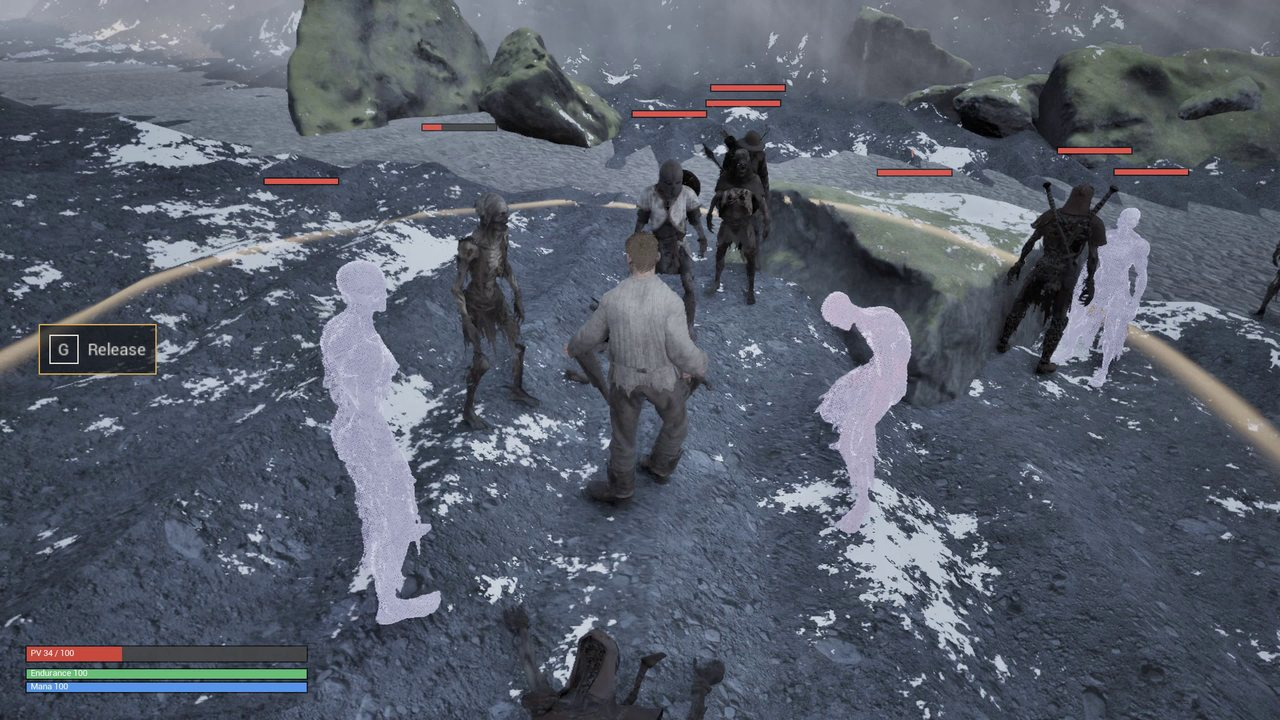
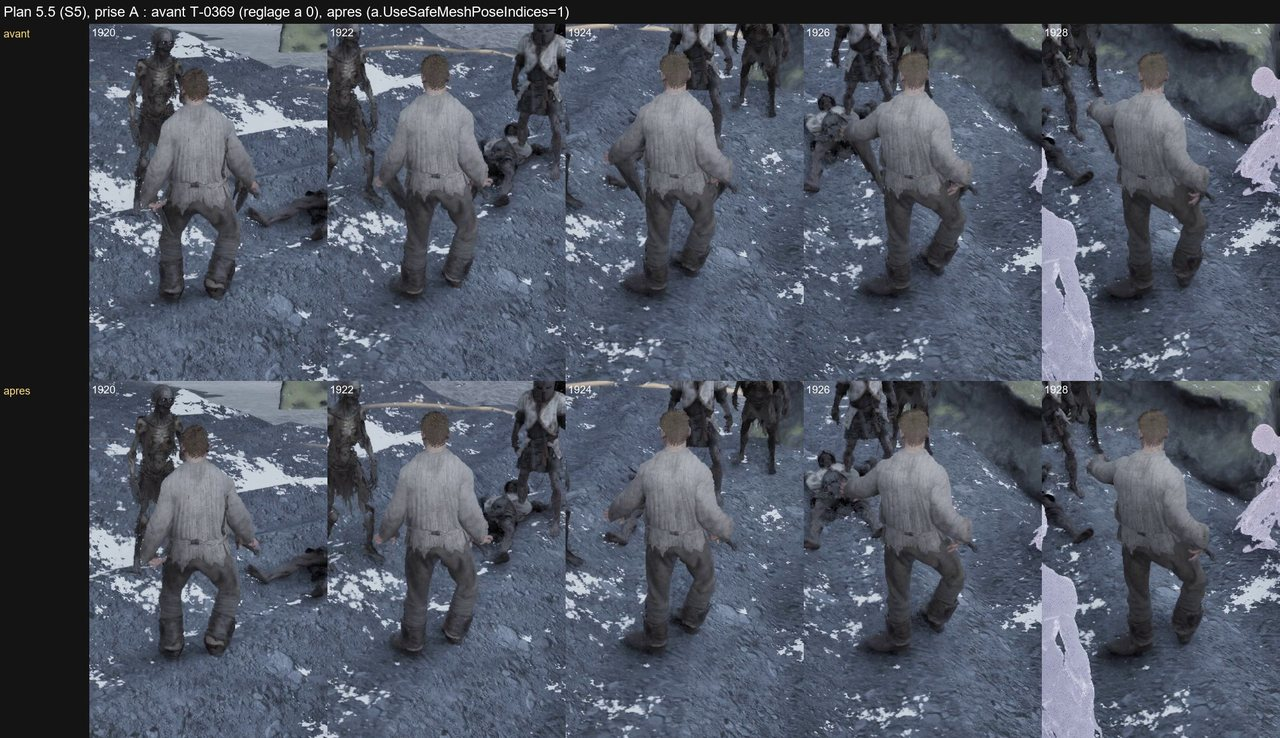
T-0369 en verification

diff --git a/semaines/2026-10-27/pages/jour-2026-11-01/page.html b/semaines/2026-10-27/pages/jour-2026-11-01/page.html
@@ -95,7 +95,7 @@ ul.liste{margin:0;padding-left:1.1rem;display:grid;gap:.4rem}
   <div class="surtitre">Projet AAA · suivi · dimanche 1er novembre 2026 · semaine du 27 octobre au 2 novembre</div>
   <h1>Jour <em>6</em></h1>
   <p class="lecture">Le PC reste en continu, carte graphique et processeur (<span class="insec">D-323</span>). Hier soir, le héros a joué pour la première fois les animations faites dans Blender. Aujourd&#x27;hui : vérifier ce résultat, puis les rochers, les déclencheurs de voix et le didacticiel sur la carte, et brancher au jeu le réveil, l&#x27;épée et le reflet.</p>
-  <p class="ticket">Mise à jour : 01/11/2026 à 03:14</p>
+  <p class="ticket">Mise à jour : 01/11/2026 à 03:46</p>
   <nav class="sommaire" aria-label="Sommaire">
     <a href="#resume">Résumé</a><a href="#files">Files de travail</a><a href="#modeles">Modèles 3D</a><a href="#journal">Journal</a><a href="#questions">Questions</a>
   </nav>
@@ -104,7 +104,7 @@ ul.liste{margin:0;padding-left:1.1rem;display:grid;gap:.4rem}
 
 <section id="resume">
   <h2>Résumé</h2>
-  <div class="compteurs" aria-label="Tickets par état"><span class="etat e-a-faire">8 à faire</span><span class="etat e-en-cours">1 en cours</span><span class="etat e-verification">1 en vérification</span><span class="etat e-valide">2 validés</span></div>
+  <div class="compteurs" aria-label="Tickets par état"><span class="etat e-a-faire">8 à faire</span><span class="etat e-verification">2 en vérification</span><span class="etat e-valide">2 validés</span></div>
   <ul class="liste lecture">
     <li>Le poste reste rendu en continu (<span class="insec">D-323</span>) ; suite de la page d&#x27;hier.</li>
     <li>File carte : <strong><span class="insec">T-0355</span></strong> en vérification (le héros joue les animations de Blender, à deux réglages près).</li>
@@ -132,7 +132,7 @@ ul.liste{margin:0;padding-left:1.1rem;display:grid;gap:.4rem}
     <div class="piste"><span class="ticket"><span class="insec">T-0364</span> · <span class="insec">P1-22</span> · <span class="insec">D-323</span></span><h3>Le défaut intermittent de l&#x27;arc de la patrouille</h3><p class="muted">Un parcours a été rouge une fois sur quatre, sans lien avec le ticket en cours : trouver la cause.</p><span class="etat e-a-faire">À faire</span><p class="note">Écrit ; après <span class="insec">T-0359</span>.</p></div>
     <div class="piste"><span class="ticket"><span class="insec">T-0366</span> · <span class="insec">P1-22</span> · <span class="insec">D-323</span></span><h3>Les rochers noirs qui semblent flotter dans le ciel</h3><p class="muted">Vus par le Chef sur les images de <span class="insec">T-0363</span> : savoir ce que c&#x27;est, les recenser par script, corriger ceux que le joueur voit.</p><span class="etat e-a-faire">À faire</span><p class="note">Écrit ; après <span class="insec">T-0355</span>, avant de refilmer S4 et S5.</p></div>
     <div class="piste"><span class="ticket"><span class="insec">T-0345</span> · <span class="insec">D-323</span></span><h3>Regard à la manette</h3><p class="muted">Réglage du regard à la manette.</p><span class="etat e-a-faire">À faire</span></div>
-    <div class="piste"><span class="ticket"><span class="insec">T-0369</span> · <span class="insec">D-304</span> · <span class="insec">D-322</span> (17) · <span class="insec">D-323</span></span><h3>Le lambeau de la canalisation : le corriger dans le jeu</h3><p class="muted">Pendant le sort en vue TPS, un lambeau sombre part de la main vers le sol (plan 5.5). Essai de deux remèdes sur la vraie scène ; sinon, le repli de <span class="insec">D-322</span> (17). Un contrôle qui voit enfin le défaut.</p><span class="etat e-en-cours">En cours</span><p class="note">Lancé à 01:01 : première de la file carte.</p></div>
+    <div class="piste"><span class="ticket"><span class="insec">T-0369</span> · <span class="insec">D-304</span> · <span class="insec">D-322</span> (17) · <span class="insec">D-323</span></span><h3>Le lambeau de la canalisation : le corriger dans le jeu</h3><p class="muted">Pendant le sort en vue TPS, un lambeau sombre part de la main vers le sol (plan 5.5). Essai de deux remèdes sur la vraie scène ; sinon, le repli de <span class="insec">D-322</span> (17). Un contrôle qui voit enfin le défaut.</p><span class="etat e-verification">En vérification</span><p class="note">Livré vers 03:45 : le lambeau est parti, les pieds restent tenus : une ligne de réglage (a.UseSafeMeshPoseIndices=1), provisoire, sans coût mesurable. Le même réglage corrige un défaut nouveau : bras et armure des archers arrachés. Paquet non essayé. Vérificateur lancé à 03:46, sur la carte.</p></div>
   </div>
   <p class="suite">Après <span class="insec">T-0339</span> : <span class="insec">T-0321</span> (l&#x27;Ange), <span class="insec">T-0355</span> (animations de Blender dans Unreal), <span class="insec">T-0328</span> (voix de l&#x27;entité), <span class="insec">T-0331</span> (affichage), <span class="insec">T-0332</span> (montée de niveau), <span class="insec">T-0345</span> (regard à la manette), <span class="insec">P1-21</span> (sons).</p>
 </div>
@@ -160,16 +160,16 @@ ul.liste{margin:0;padding-left:1.1rem;display:grid;gap:.4rem}
   <p class="chemins">Sur le PC : E:\aaa-proto\essai\heros-reveil\controles-t0368\planche_genou.jpg</p>
 </article>
 <article class="modele" id="mod-t0369-lambeau">
-  <div class="tete"><h3>Le lambeau dans le jeu d&#x27;aujourd&#x27;hui (plan 5.5)</h3><span class="etat e-en-cours">En cours</span></div>
-  <p class="ticket"><span class="insec">T-0369</span> · <span class="insec">D-322</span> (17)</p>
-  <figure><img src="images/t0369-lambeau.jpg" alt="Image : Le lambeau dans le jeu d&#x27;aujourd&#x27;hui (plan 5.5)" width="1280" height="720" loading="lazy"><figcaption>Vraie scène, caméra du jeu : la bande sombre qui part de la main droite vers le sol. C&#x27;est un défaut, à corriger avant tout nouveau film.</figcaption></figure>
-  <p class="chemins">Sur le PC : E:\aaa-proto\verif-tmp\t0355-verif\scene-eclair\f_01925.png</p>
+  <div class="tete"><h3>Le lambeau du plan 5.5, avant et après</h3><span class="etat e-verification">En vérification</span></div>
+  <p class="ticket"><span class="insec">T-0369</span> · <span class="insec">D-322</span> (17) · <span class="insec">D-323</span></p>
+  <figure><img src="images/t0369-lambeau.jpg" alt="Image : Le lambeau du plan 5.5, avant et après" width="1280" height="738" loading="lazy"><figcaption>Plan 5.5, vraie scène, mêmes images. En haut, avant : la bande sombre qui part de la main, images 1924 à 1928. En bas, après le réglage : plus rien.</figcaption></figure>
+  <p class="chemins">Sur le PC : E:\aaa-proto\unreal-v2\mesures\t0369\planche_avant_apres.jpg</p>
 </article>
 <article class="modele" id="mod-t0369-remede">
-  <div class="tete"><h3>Le même film, avec et sans le premier remède</h3><span class="etat e-en-cours">En cours</span></div>
-  <p class="ticket"><span class="insec">T-0369</span> · <span class="insec">D-322</span> (17)</p>
-  <figure><img src="images/t0369-remede.jpg" alt="Image : Le même film, avec et sans le premier remède" width="1280" height="472" loading="lazy"><figcaption>En haut, le jeu d&#x27;aujourd&#x27;hui ; en bas, avec a.UseSafeMeshPoseIndices. Film d&#x27;essai : la vraie scène reste à essayer.</figcaption></figure>
-  <p class="chemins">Sur le PC : E:\aaa-proto\verif-tmp\t0355-verif\comparaison_safe.jpg</p>
+  <div class="tete"><h3>Les archers de la patrouille, avant et après</h3><span class="etat e-verification">En vérification</span></div>
+  <p class="ticket"><span class="insec">T-0369</span> · <span class="insec">D-323</span></p>
+  <figure><img src="images/t0369-remede.jpg" alt="Image : Les archers de la patrouille, avant et après" width="1280" height="940" loading="lazy"><figcaption>À gauche, avant : bras et armure arrachés sur les archers qui tirent, un défaut que personne n&#x27;avait vu. À droite, après le même réglage.</figcaption></figure>
+  <p class="chemins">Sur le PC : E:\aaa-proto\unreal-v2\mesures\t0369\patrouille_rouge_final.jpg</p>
 </article>
 <article class="modele" id="mod-t0370-gambison">
   <div class="tete"><h3>Gambison : manches et flanc, avant et après</h3><span class="etat e-verification">En vérification</span></div>
@@ -195,6 +195,7 @@ ul.liste{margin:0;padding-left:1.1rem;display:grid;gap:.4rem}
     <div class="entree"><time>00:57</time><p>Avis du vérificateur de <span class="insec">T-0355</span> : validé, mais le lambeau est dans le jeu, plan 5.5, et il était dans le film de preuve de <span class="insec">T-0320</span>.</p></div>
     <div class="entree"><time>01:01</time><p><span class="insec">T-0355</span> validé. <span class="insec">T-0369</span> lancé sur la carte (le lambeau) ; <span class="insec">T-0370</span> lancé sur le processeur (manches et trou du flanc du gambison).</p></div>
     <div class="entree"><time>03:14</time><p><span class="insec">T-0370</span> livré : la main sort de la manche, le trou du flanc est fermé dans Blender. Vérificateur lancé sur le processeur. <span class="insec">T-0369</span> est toujours sur la carte.</p></div>
+    <div class="entree"><time>03:46</time><p><span class="insec">T-0369</span> livré : lambeau parti d&#x27;une ligne de réglage, qui corrige aussi les archers. Vérificateur lancé sur la carte.</p></div>
   </div>
 </section>
 
